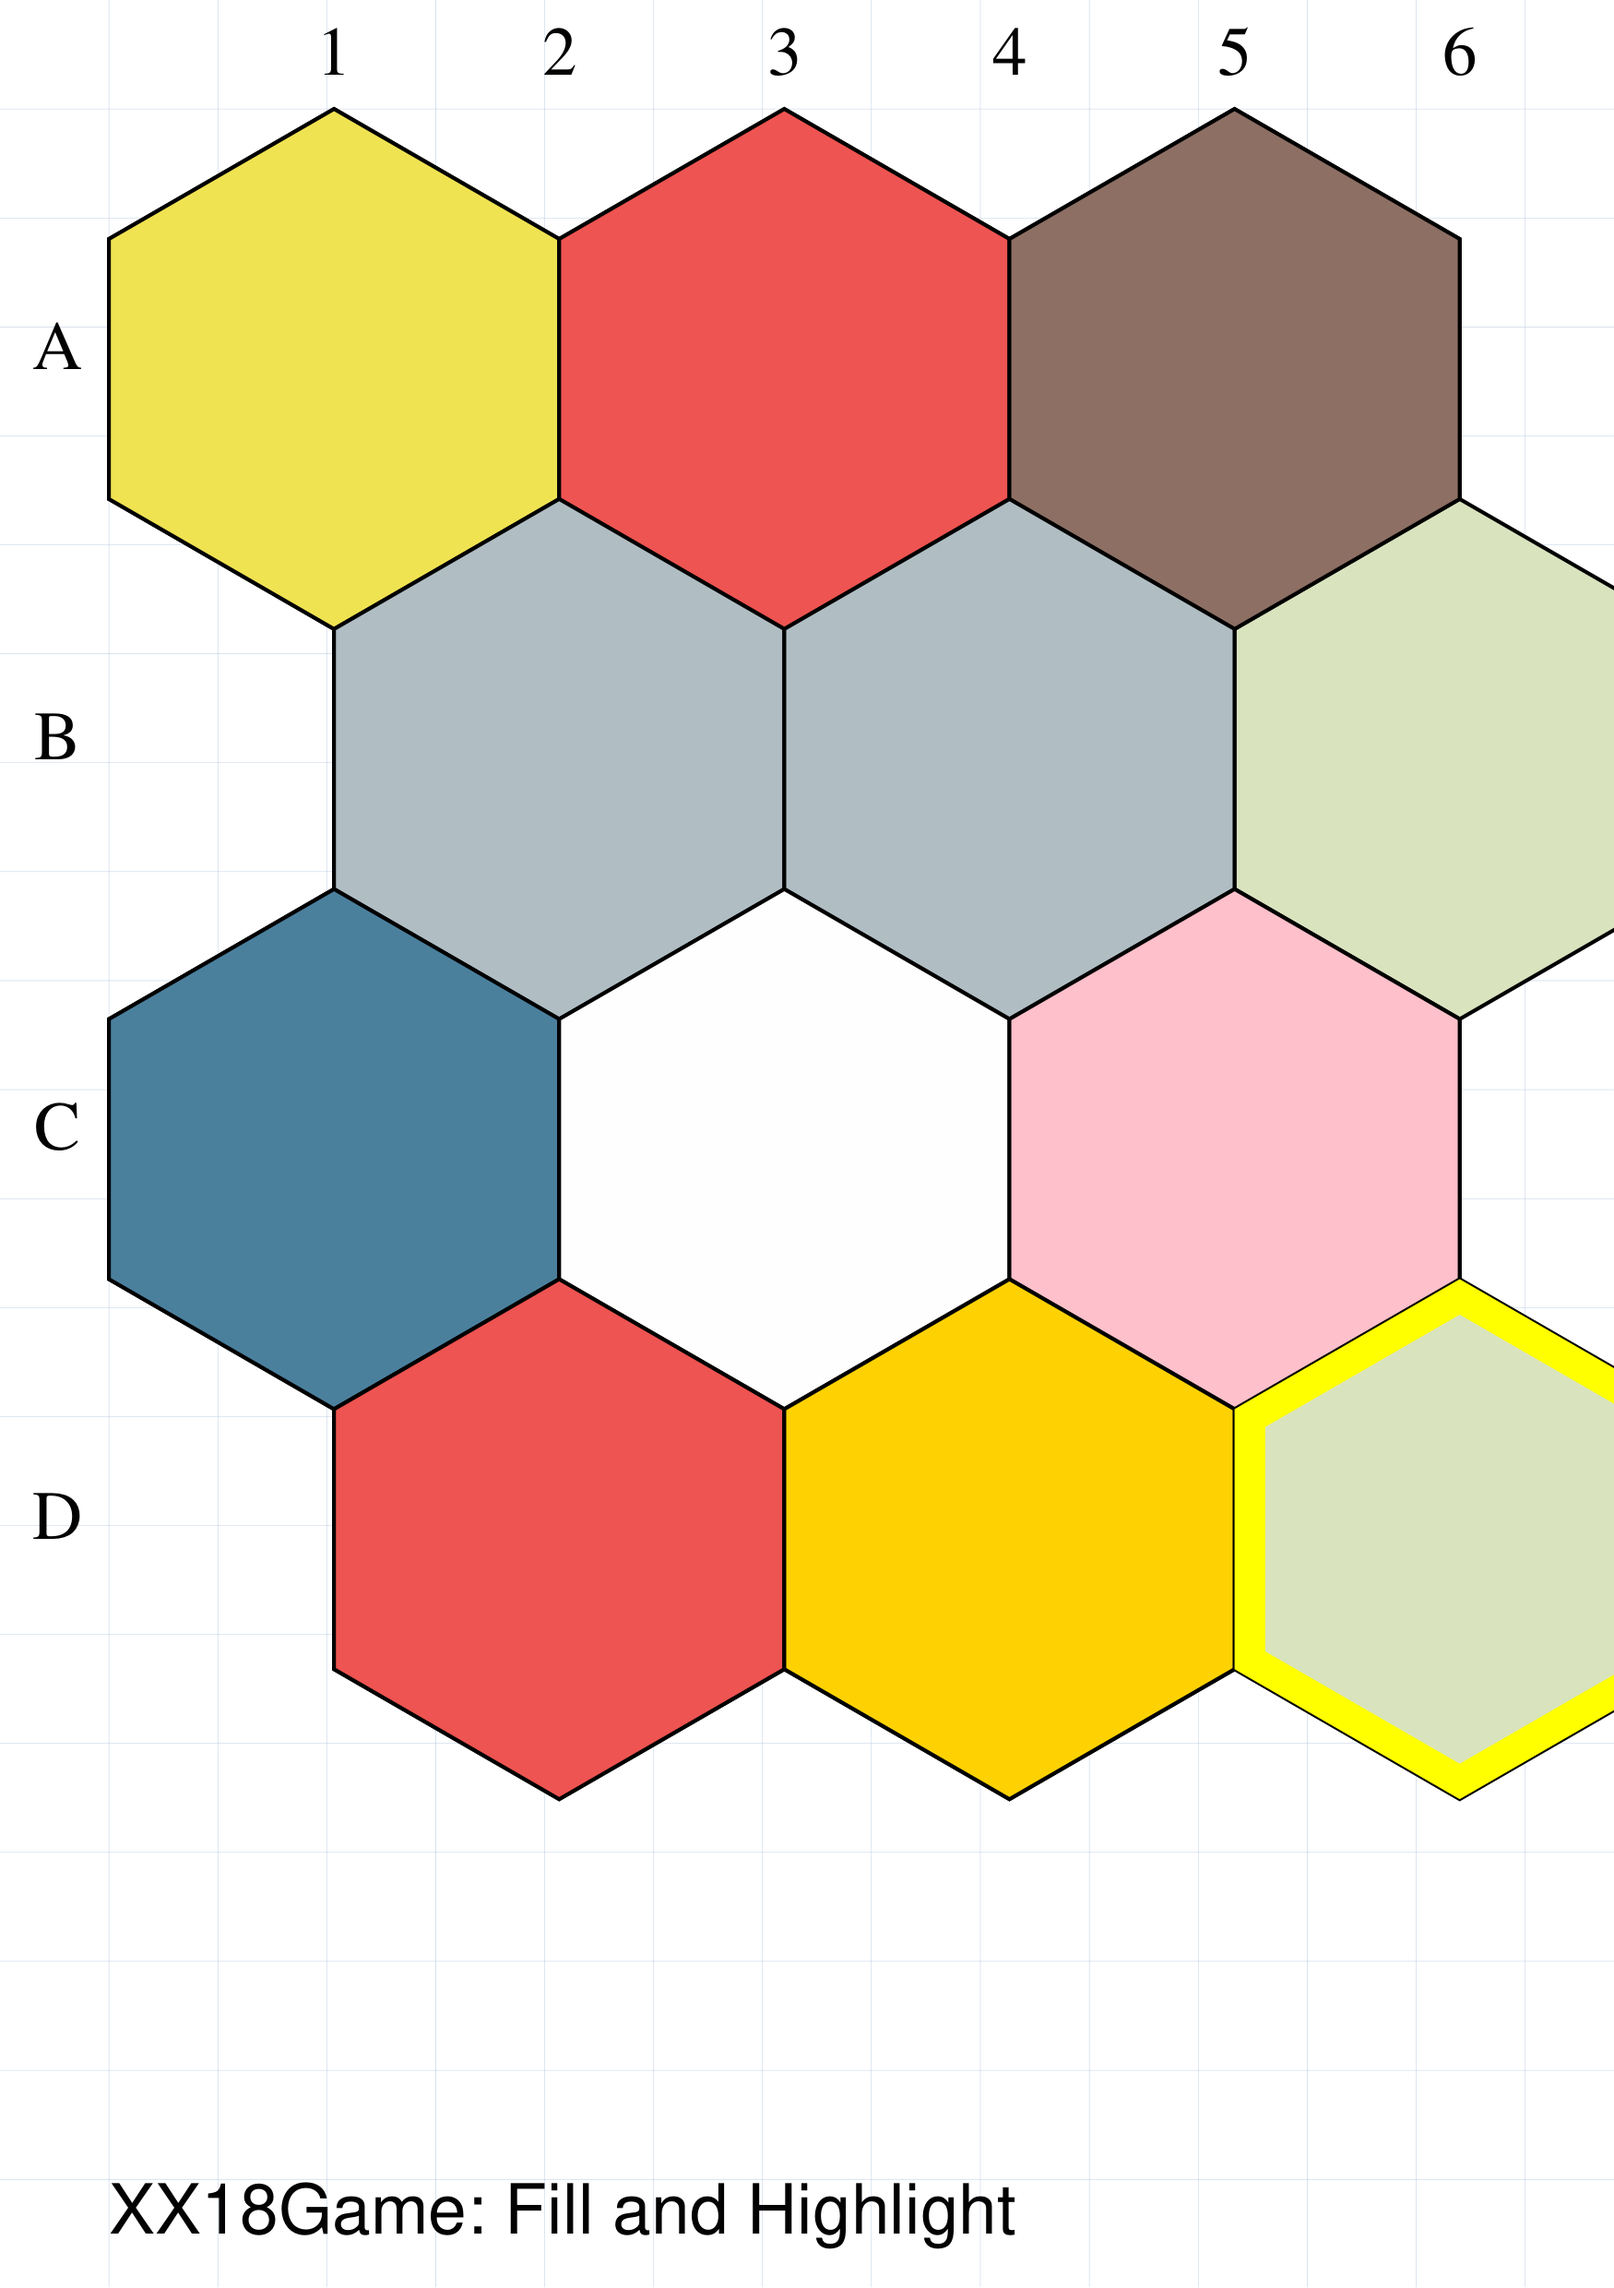
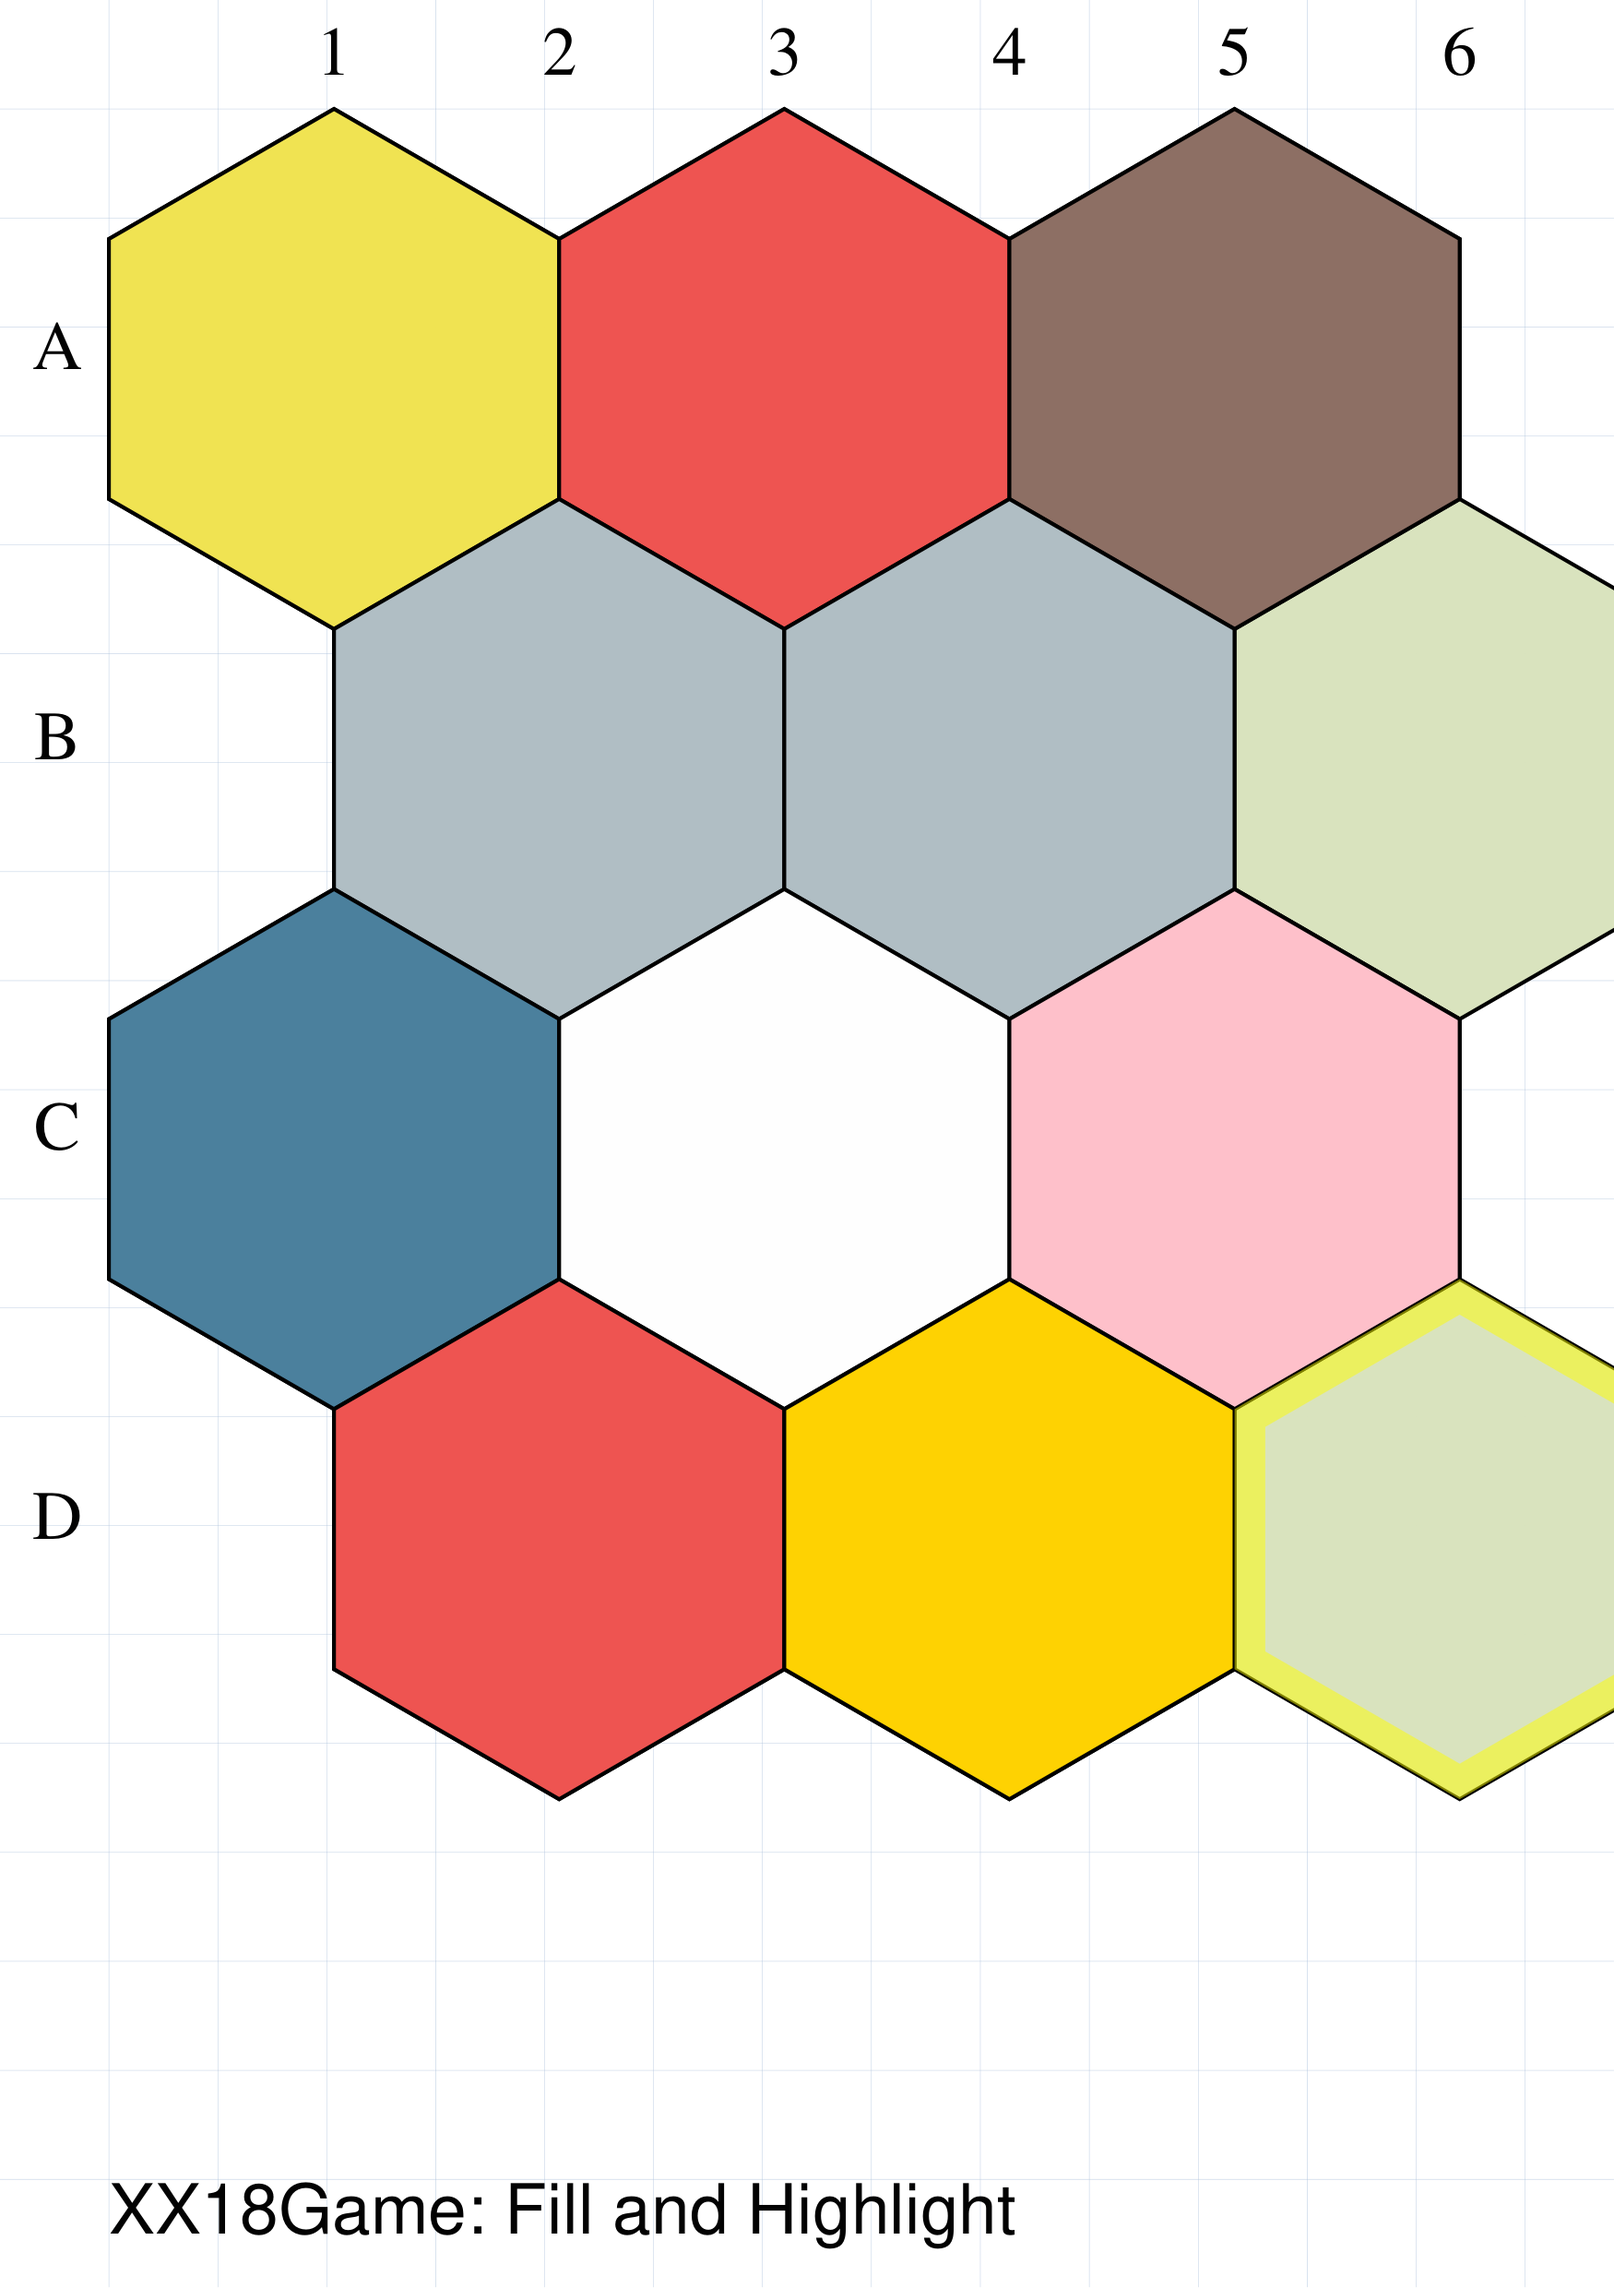
Add custom stroke color. Patch private labels.

Changed region(s): [[0.7406, 0.5589, 1.0, 0.8073]]

diff --git a/protograf/games/xx18_game.py b/protograf/games/xx18_game.py
@@ -156,10 +156,12 @@ DEFAULT_SETTINGS = {
     "XX18_DEBUG_FONT_OFFSET_X": 0.0,
     "XX18_DEBUG_FONT_OFFSET_Y": 0.0,
     "XX18_DEBUG_FONT_NAME": "Helvetica",
+    "XX18_STROKE": "black",
     "XX18_STROKE_WIDTH": 1,  # points
     "XX18_STROKE_WIDTH_BLOCK": 7,  # points
     "XX18_STROKE_WIDTH_HIGHLIGHT": 8,  # points
     "XX18_STROKE_TRANSPARENCY_HIGHLIGHT": 50,  # percent
+    "XX18_TEXT_STROKE": "black",
     "XX18_TEXT_XXS": 7,  # points
     "XX18_TEXT_XS": 9,  # points
     "XX18_TEXT_SMALL": 11,  # points
@@ -1169,19 +1171,19 @@ class XX18GameObject(CoreGameObject):
         kwargs["heading"] = heading
         kwargs["heading_size"] = font_size
         kwargs["heading_font"] = self.xxs["XX18_TEXT_FONT"]
-        kwargs["heading_stroke"] = "black"
+        kwargs["heading_stroke"] = self.xxs["XX18_TEXT_STROKE"]
 
         kwargs["title"] = title
         kwargs["title_size"] = font_size
         kwargs["title_font"] = self.xxs["XX18_TEXT_FONT"]
-        kwargs["title_stroke"] = "black"
+        kwargs["title_stroke"] = self.xxs["XX18_TEXT_STROKE"]
 
         kwargs["label"] = _label
         kwargs["label_mx"] = label_mx
         kwargs["label_align"] = label_align
         kwargs["label_size"] = font_size
         kwargs["label_font"] = self.xxs["XX18_TEXT_FONT"]
-        kwargs["label_stroke"] = "black"
+        kwargs["label_stroke"] = self.xxs["XX18_TEXT_STROKE"]
         return kwargs
 
     def process_track_town_position(
@@ -1390,7 +1392,7 @@ class XX18GameObject(CoreGameObject):
                         cxy=geo.centre,
                         height=self.hex_height,
                         fill=None,
-                        stroke="black",
+                        stroke=self.xxs["XX18_TEXT_STROKE"],
                         stroke_width=0.1,
                         orientation=self.orientation,
                         paths_stroke=self.xxs["XX18_TRACK_OUTER_FILL"],
@@ -2163,7 +2165,7 @@ class XX18GameObject(CoreGameObject):
             Text(
                 text=letter,
                 xy=ccentre,
-                stroke="black",
+                stroke=self.xxs["XX18_TEXT_STROKE"],
                 stroke_width=self.stroke_width_xx,
                 font_size=self.xxs["XX18_TEXT_XXL"],
                 font_name=self.xxs["XX18_TEXT_FONT_BOLD"],
@@ -2389,7 +2391,7 @@ class XX18GameObject(CoreGameObject):
                     fill_stroke=_colors[key],
                     label=inc,
                     label_font=self.xxs["XX18_TEXT_FONT"],
-                    label_stroke="black",
+                    label_stroke=self.xxs["XX18_TEXT_STROKE"],
                     **kwargs,
                 )
                 x = x + box_width if table_orientation == "H" else x
@@ -2457,13 +2459,13 @@ class XX18GameObject(CoreGameObject):
                 lwargs = {}
                 lwargs["font_name"] = self.xxs["XX18_TEXT_FONT"]
                 lwargs["font_size"] = self.xxs["XX18_TEXT_SMALL"]
-                kwargs["stroke"] = "black"
+                kwargs["stroke"] = self.xxs["XX18_TEXT_STROKE"]
                 lwargs["heading_font"] = self.xxs["XX18_TEXT_FONT"]
                 lwargs["heading_size"] = self.xxs["XX18_TEXT_SMALL"]
-                kwargs["heading_stroke"] = "black"
+                kwargs["heading_stroke"] = self.xxs["XX18_TEXT_STROKE"]
                 lwargs["title_font"] = self.xxs["XX18_TEXT_FONT"]
                 lwargs["title_size"] = self.xxs["XX18_TEXT_SMALL"]
-                kwargs["title_stroke"] = "black"
+                kwargs["title_stroke"] = self.xxs["XX18_TEXT_STROKE"]
 
                 label_location = kwargs.get("label_location", "below")
                 relative_location = self.relative_location(label_location)
@@ -2538,14 +2540,14 @@ class XX18GameObject(CoreGameObject):
                         delta_y = self.xxs["XX18_TEXT_SMALL"] / self.units
 
                     if c_e.x > c_s.x and c_e.y < c_s.y:
-                        talign = "left"
+                        talign = "right" if labove else "left"
                     if c_e.x < c_s.x and c_e.y > c_s.y:
                         talign = "right" if labove else "left"
 
                     if c_e.x > c_s.x and c_e.y > c_s.y:
                         talign = "left" if labove else "right"
                     if c_e.x < c_s.x and c_e.y < c_s.y:
-                        talign = "right"
+                        talign = "left" if labove else "right"
 
                     if c_e.x == c_s.x:
                         # vertically rotate text

diff --git a/docs/source/objects/xx18.rst b/docs/source/objects/xx18.rst
@@ -1419,6 +1419,7 @@ the ``XX18State()`` command, that be changed in a JSON file; see
 * ``"XX18_STROKE_WIDTH_BLOCK"`` - default is ``7`` points; width of block feature line
 * ``"XX18_STROKE_WIDTH_HIGHLIGHT"`` - default is ``8`` points; width of highlight feature line
 * ``"XX18_STROKE_TRANSPARENCY_HIGHLIGHT"`` - default is ``50`` (%); transparency of highlight feature line
+* ``"XX18_TEXT_STROKE"`` - default is ``black"``; text is drawn this color
 * ``"XX18_TEXT_XXS"`` - default is ``7`` points; extra-extra small text
 * ``"XX18_TEXT_XS"`` - default is ``9`` points; extra small text
 * ``"XX18_TEXT_SMALL"`` - default is ``11`` points; small text
